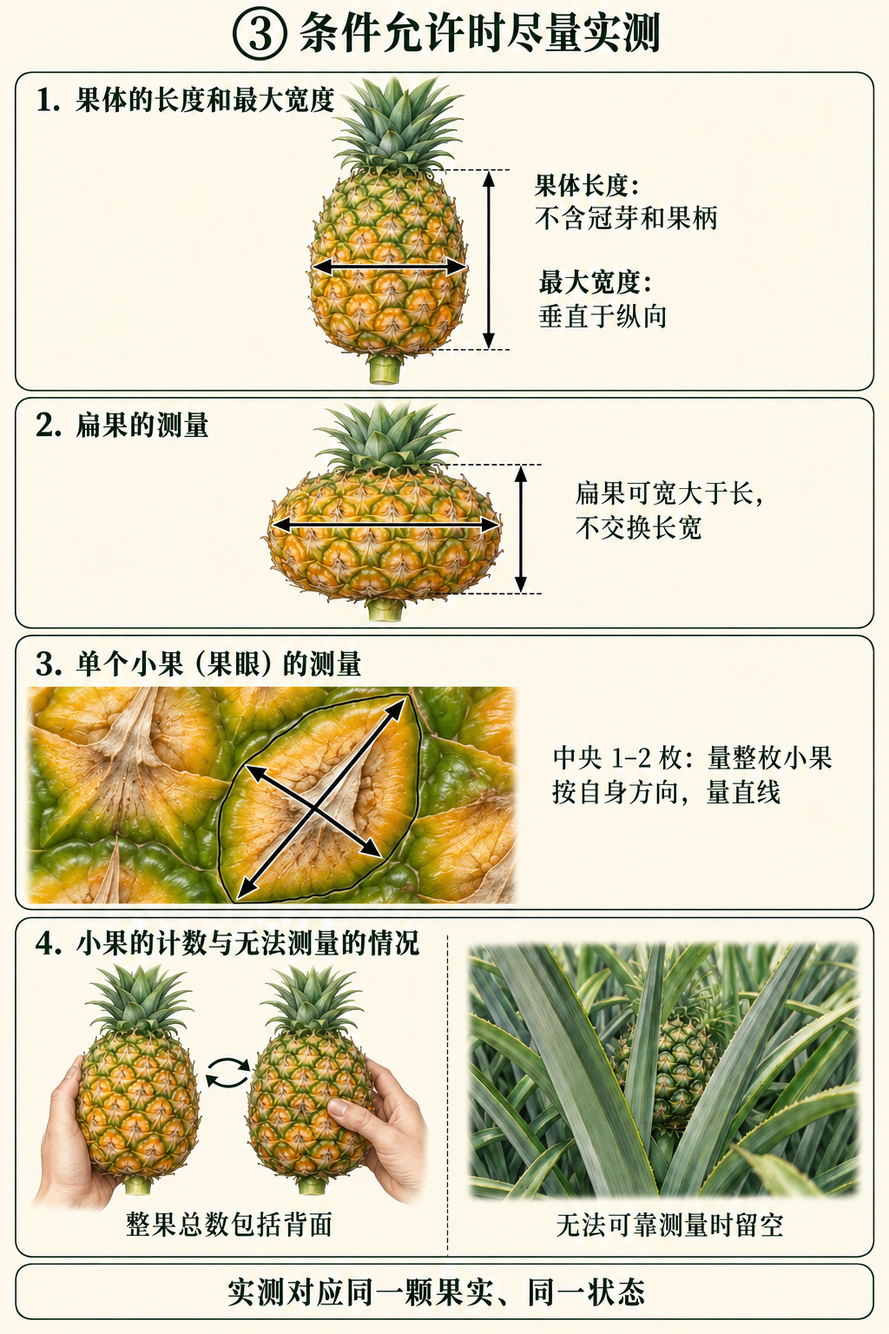
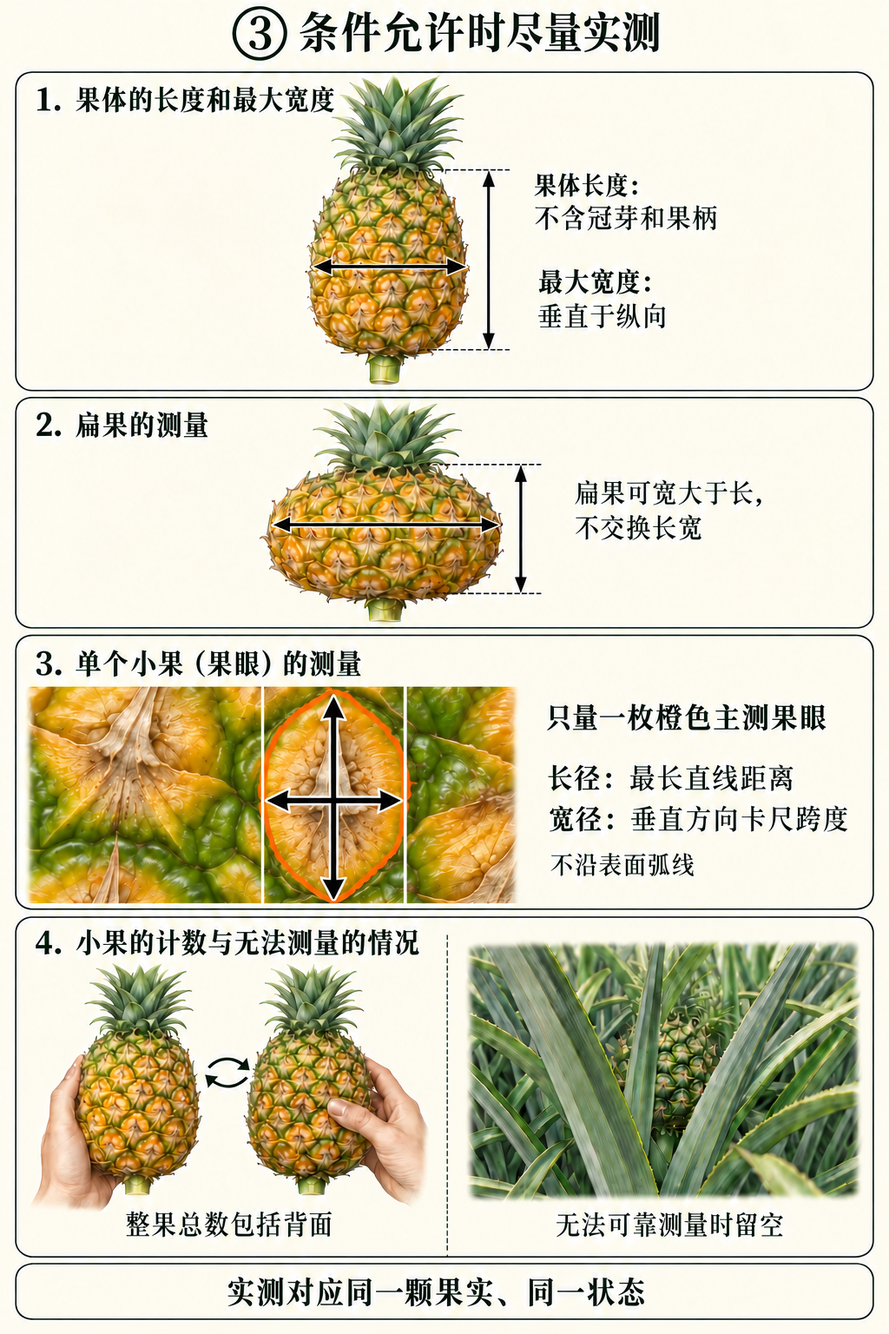
feat: identify one primary fruitlet and align collection guidance

diff --git a/docs/architecture.md b/docs/architecture.md
@@ -2,16 +2,33 @@
 
 本文面向开发者，记录整果侧面照片研究的目标、数据契约和验证边界。[Issue #21](https://github.com/AI4S-YB/pineapplehub/issues/21) 是学生采集与标注指南的唯一正文来源；仓库维护 [XML](annotation/label-studio.xml) 和正式配图，不维护学生指南镜像。
 
+实验须支持具体程序功能：每个采集量都要说明由哪个输出消费、对应哪个实物或图像区域，以及如何比较预测与实测。下面分别记录已实现功能和研究方案；XML 使用橙色标签保存唯一中央主测果眼；自动识别、实例选择和相应测量程序仍需实现与验证。
+
+## 0. 产品方向与原型经验
+
+目标是供普通用户使用的 C 端 app，支持自然田间和采后照片。早期原型依赖纯黑试验台／黑布、俯视拍摄、硬币参照及传统图像处理；这些条件苛刻，果体和其他区域的误识别会使后续计算失败。引入机器学习的直接目的，是改善这些识别步骤及日常照片的适应性，同时保留有用的几何估计。旧拍摄条件不应重新成为学生的默认要求。
+
+项目负责人报告：已对照过许多实物照片，前置识别正确时，现有近似所得结果与实测接近；明显失败多数来自果体等前置识别错误。这是已有使用经验，不应因参数不是标定值就判作巧合。现阶段保留它作为比较基线；本次公式审查没有重新计算这些实物样本，也未补造样本数或误差统计。推导、原始来源与适用边界见[裁剪圆柱近似审查](algorithms/cylindrical-approximation-review.md)。
+
 ## 1. 六项同等优先的输出
 
 1. 果体长度：沿冠芽端至果柄端方向的直线长度，不含冠芽和果柄。
 2. 整颗最大横径：垂直上述纵向的最大直线跨度，不是任意照片投影宽度。扁果可以宽大于长，不能按数值大小交换。
 3. 体积：目标果体的体积，不含冠芽、果柄。
 4. 宏观表面积：目标果体外表面积，排除冠芽、果柄，不逐一累计细小纹理凹凸。
-5. 中央代表性果眼长宽：赤道面中央 1–2 枚完整小果，按每枚自身最长直线跨度及垂直方向最大跨度测量；即使倾斜也用自身方向，不沿表面弧线。对象是相邻沟壑圈定的整枚小果，不是中央花盘或凹陷。这是代表性测量，不能宣称描述整颗果眼大小分布。
+5. 中央指定果眼长宽：输出指向唯一主测完整小果，同时显示其轮廓与尺寸。测量对象是相邻沟壑圈定的整枚小果外表区域，区别于花盘和中央凹陷。按 3.1 的位置规则选一枚；旧任务的第二枚实测原样保留。
 6. 整果果眼总数：同一颗果实含背面的人工总数，不是可见实例数量。
 
 六项均为核心目标。体积和表面积的独立参考测量方法、设备、样本与精度阈值仍待确定，本轮没有为学生新增缺乏可靠操作方法的字段。
+
+| 程序功能 | 采集或参考数据 | 必须验证的对应关系 |
+| --- | --- | --- |
+| 果体长度、最大横径 | 可见果体轮廓、牌四角及实测边长、同状态果体实测 | 固定方向一致；单张投影宽度不能直接冒充整颗最大横径 |
+| 体积、宏观表面积 | 轮廓及几何假设；另需独立体积／面积参考 | 对照独立实测，不能拿同一旋转体公式互证 |
+| 中央指定果眼长宽 | 指定实例的轮廓、角色及该枚原始实测 | 必须比较同一枚、同一定义的尺寸，并在结果图中定位它 |
+| 整果果眼总数 | 可见果眼实例、可见性、未知区域、含背面的人工整果计数 | 可见数与整果数分别报告；中央一枚的大小是否可外推需独立检验 |
+
+牌只提供尺度与姿态约束，不是新增的最终产品输出；每项输出还须报告参考值覆盖率与预测可用比例。
 
 ## 2. 数据来源、身份与划分
 
@@ -19,11 +36,13 @@
 
 同一实物的重拍、重复图、裁剪和增强保持在同一数据划分。开发端负责转换、划分、训练和评估，学生不选择训练／测试集。田间受叶片遮挡的缺测可能集中于特定阶段，不能假设缺测随机发生。
 
-已有真实任务、标注和草稿，不能再按空项目处理。配置切换需保留原图及原始快照，在导出副本验证转换和恢复后，协调者刷新并锁定生产记录：只改两类果眼标签名称、删除取消的 `target_fruit` 和 `reference_tag` 框结果；其他区域 ID、像素内容、图像尺寸、关联、已有数值、备注、状态和草稿身份均保留。不补造实测、不重新分配 ID、不清空试标、不另建正式项目。统计须从转换后的标注和草稿重建，重复转换无额外变化；有新增编辑先刷新验证，不覆盖。备份及真实标注保持私有。
+已有真实任务、标注和草稿，不能再按空项目处理。2026-10-19 已完成的配置切换改了两类果眼标签名称，并删除取消的 `target_fruit` 和 `reference_tag` 框结果；其他区域 ID、像素内容、图像尺寸、关联、已有数值、备注、状态和草稿身份均保留。
+
+主测角色通过新增原生标签引入，只更新项目配置，保留全部任务、标注、草稿、预测和统计，不自动指定旧区域身份。切换前保留原始快照，在正式数据副本验证应用和恢复，正式写入前锁定记录并检查快照未变；有新增编辑先刷新验证。原图、备份及真实标注保持私有。
 
 ## 3. 标注与测量接口
 
-绿色 `完整可见果眼` 和蓝色 `部分可见果眼` 都是可辨认的独立实例，后者只描述可见部分；每枚独立区域。紫色 `fruitlet_uncertain` 不是果眼实例，也不是明确背景。青色 `fruit_body` 汇集全部可确认可见果体，包括分离小块、阴影和贴合组织，保留一条记录；不补画遮挡，不包括冠芽叶片、果柄、背景和外翘细长尖端。
+橙色 `中央主测果眼（完整）`、绿色 `完整可见果眼` 和蓝色 `部分可见果眼` 都是可辨认的独立实例，后者只描述可见部分；每枚独立区域。紫色 `fruitlet_uncertain` 不是果眼实例，也不是明确背景。青色 `fruit_body` 汇集全部可确认可见果体，包括分离小块、阴影和贴合组织，保留一条记录；不补画遮挡，不包括冠芽叶片、果柄、背景和外翘细长尖端。
 
 先果眼／紫色，最后青色；青色不会替代或合并已有区域。所需目标包围范围由完整青色掩膜生成，包括分离小块，裁剪余量由开发配置。这是训练／评估接口，不代表推理时自动定位已经实现。
 
@@ -34,11 +53,33 @@
 | `fruit_max_width_mm` | 任务级，整颗最大横径 |
 | `total_fruitlet_count` | 任务级，人工整果总数 |
 | `fruitlet_long_diameter_mm` | 区域级，所选完整果眼自身长径 |
-| `fruitlet_short_diameter_mm` | 区域级，与该枚长径垂直的最大宽径 |
+| `fruitlet_short_diameter_mm` | 区域级，与该枚最长直线径垂直的卡尺跨度 |
 
-所有字段可缺测，无默认值；尺寸正数、步长 0.1 毫米，计数正整数。两枚果眼分别保留原始值，由开发汇总。空值不生成伪零，也不删除区域；清空一项不得影响其他字段或其他果眼。输入精度不是测量精度。[临时 Number 构建配方](../deploy/label-studio-number/README.md) 对应 1.23.2 的空字符串问题，产品跟踪见 [#22](https://github.com/AI4S-YB/pineapplehub/issues/22)，通用修复见 [上游 #9989](https://github.com/HumanSignal/label-studio/pull/9989)。原生 View 根据所选完整果眼显示区域字段；正式镜像的保存、重开、导出验收仍是部署门禁。
+所有字段可缺测，无默认值；尺寸正数、步长 0.1 毫米，计数正整数。现有每枚果眼的实测通过区域 ID 与其掩膜关联，已有两枚记录也保留各自原始值；主测角色由橙色标签保存，不从已有数值推断，也不将两枚数值汇总。空值不生成伪零，也不删除区域；清空一项不得影响其他字段或其他果眼。输入精度不是测量精度。[临时 Number 构建配方](../deploy/label-studio-number/README.md) 对应 1.23.2 的空字符串问题，产品跟踪见 [#22](https://github.com/AI4S-YB/pineapplehub/issues/22)，通用修复见 [上游 #9989](https://github.com/HumanSignal/label-studio/pull/9989)。原生 View 根据所选完整果眼显示区域字段；配置或镜像变更须验证保存、重开及导出。
 
 数量级差异和极端值可提示复核，不能据统计自动改值或删除，也不能发现所有人共同填错单位。本轮不新增异常检测服务。标注完成状态不是测量有效性标签。
+
+### 3.1 中央主测果眼与实例身份
+
+“中央”是相对于果体和拍摄视角的位置，“主测”是本项目的测量角色；它们不是新的植物学器官类别。逐枚保留轮廓属于**实例分割**：不仅区分果眼像素，还区分第几枚。随后从完整实例中选择主测对象，属于实例选择／排序；可先用位置规则完成，不预设必须再训练分类器。只把全部果眼像素合成一类的语义分割不能保留这种对应关系。
+
+界面使用独立橙色的“中央主测果眼（完整）”，在现有 `fruitlets` 控件内区分它与普通完整果眼。该枚只保存一份掩膜和一个区域 ID；已画好的普通完整果眼可原位改标签，不重复涂一份。开发端把它还原为 `fruitlet` 实例、完整可见、主测角色三项含义，防止额外计数。复用 Label Studio 1.23.2 原生 `Label maxUsages="1"` 和 `perRegion` 控件；橙色最多一枚，橙色和绿色均显示原有测量字段。有效主测必须恰好一枚；无法确定的任务可零枚并提交复核。配置的数量限制不代替负责人检查位置和完整性。
+
+主测对象固定为**一枚**：在果体纵向中部、朝向相机且完整可见的小果中，选择最靠近果体纵轴中点投影的一枚。中心落在沟壑上也只选最符合条件的一枚，不扩成两枚，不按大小或哪枚更容易对上程序结果选择。没有合适对象，或几枚之间无法可靠区分时，交负责人确认；不跳到边缘强凑。“强制一枚”规定有效主测记录的数量，不允许凭空补画对象或补造尺寸。候选范围和标注者一致性需用项目样本检验；“赤道”不自动等于果体最宽位置，现有代码用的是裁剪图半高。
+
+当前不要求第二枚，也不计算两枚平均。已有两枚实测全部保留，不能为了新契约删除其中一枚或自动指定主测身份。以后若研究局部变异，另行定义取样角色与聚合规则；不改变本次唯一主测输出。
+
+单枚方案服务于“定位并测量这一枚”的功能，不证明它足以代表整颗果实。现有代码恰好只取一枚，也不是取样充分性的证据。若用局部尺寸外推整果计数，须另外评估位置差异和外推误差，再决定是否需要多枚取样或不同的计数模型。
+
+主测角色与是否测到数值分开：指定了对象但无法实测时，仍可保留角色和轮廓，数值留空。已有实测不能自动推出它就是唯一主测对象；升级时保留全部区域 ID、掩膜和数值，经复核确认角色。
+
+尺寸定义也要统一。#21 现有“最长直线跨度及其垂直宽度”是此前写入的项目操作约定，不是 UPOV 或其他菠萝形态学指南的要求；不能反过来用 #21 为这项选择提供权威依据。[ImageJ 测量指南](https://imagej.net/ij/docs/guide/146-30.html#sub:Set-Measurements...) 将最大 Feret 径定义为边界两点间最大距离，可作为长径的几何定义来源。垂直方向的卡尺宽度也有通用图像测量定义，见 [Sympatec 的 FERETmax90](https://www.sympatec.com/en/particle-measurement/glossary/fundamentals-of-particle-characterisation/particle-shape)；这些资料均不规定菠萝中央取一枚。
+
+程序目前使用最小面积外接矩形的两条边，与上述量不普遍相等。本项目现在明确采用最大 Feret 径及其正交卡尺跨度，即与长径平行的两接触面之间的距离；不采用最长垂直弦。不规则形状下两者可能不同。计算上可用已有轮廓几何方法实现，仍须将新计算与这一实测定义匹配并验证。不能仅将旧 `a_eq`、`b_eq` 字段改名；果眼长宽乘积用于整果计数的假设也须随定义重新核对。完整可见不代表该区域与牌共面或没有透视缩短。
+
+### 3.2 图示必须符合实际操作
+
+当前绘制操作是**按住鼠标左键拖动**，不是右键。Label Studio 1.23.2 的 [DrawingTool](https://github.com/HumanSignal/label-studio/blob/1.23.2/web/libs/editor/src/mixins/DrawingTool.js) 会过滤右键和中键；本项目已有左键绘制的浏览器操作记录。普通起笔、Ctrl 重叠起笔和松键图标均需与文字一致：绘制时标左键，松开时不把右键涂成按下状态。⑥配图已修正为左键着色，松开状态无按钮着色。
 
 ## 4. AprilTag 与物理边界
 
@@ -46,15 +87,28 @@
 
 当前 37 张原图曾用 AprilTag 3.4.5 检查，每张均有一个正确定位的 ID 0；这仅支持这些样本取消日常人工框，不证明无牌、多牌、遮挡场景的准确率。
 
-牌放在果体最宽处侧边、靠近果体并面对相机，是让牌平面近似处于果体轴线附近的采集约定，仍需实测检验。牌、果体和果眼存在深度差；成功解码和准确分割不等于毫米测量准确，更不等于恢复三维形状。照片横向投影未必是整颗最大横径。不可见背面果眼、体积和表面积需要额外假设及独立参考数据。
+牌在照片中放于果实侧边，不遮挡果体；在深度方向，牌面应尽量位于**通过果体纵轴、近似平行于成像面的平面**。侧视图中牌的截线应与纵轴的深度位置重合。仅把牌画得与纵轴平行，或放在相同高度，不能表达这一要求；②侧视图已将牌边缘与纵轴画在同一前后位置，并说明实物牌在果实侧边。“最宽处附近”用于帮助安排高度和邻近位置，不能代替深度对齐。
+
+在正对相机、忽略畸变的平面近似下，像素跨度 `p = f_px × L / Z`。用牌推得的比例尺测量位于另一深度的对象，会得到 `L_est = L × Z_tag / Z_object`。因此牌与轴线深度接近有助于约束果体模型；牌前后错位会产生系统尺度误差。但朝向相机的果眼表面通常比纵轴更近，不能直接对所有果眼套用轴平面的比例尺。侧面轮廓还是曲面的切线投影，不自动等于同一深度的平面直径。
+
+已知牌的物理尺寸和相机内参，可估计牌的姿态与距离；[AprilTag 官方姿态接口](https://github.com/AprilRobotics/apriltag#pose-estimation) 要求像素单位的 `fx`、`fy` 及主点 `cx`、`cy`。仅有 EXIF 焦距毫米数不足以直接代入，还须考虑传感器／有效图幅、缩放裁剪和畸变。单张牌不能独立确定未知曲面的深度或背面形状；果体几何模型及物理实测仍是必要的验证部分。
+
+①②④中六处图案统一合成自 AprilRobotics 官方 AprilTag 36h11、ID 0 素材，与打印件的编码一致；反光与弯曲反例保留同一源图案。素材与修订提示词见[配图目录](annotation/illustrations/issue-21/)。最终图案的检测通过只能证明码可读，不能替代牌位置和尺寸语义检查。照片横向投影未必是整颗最大横径；不可见背面果眼、体积和表面积仍需额外假设及独立参考数据。
 
 ## 5. 当前代码与研究接口
 
 当前 Rust／WebAssembly 应用仍运行硬币和切面方案：[scale_calibration.rs](../src/pipeline/scale_calibration.rs) 检测 1 元硬币；[roi_extraction.rs](../src/pipeline/roi_extraction.rs) 依纹理选择 ROI（目标图像范围）；[unwrap_metrics.rs](../src/pipeline/unwrap_metrics.rs) 使用圆柱重投影及旋转体轮廓积分估计几何。[fruitlet_counting.rs](../src/pipeline/fruitlet_counting.rs) 用阈值、形态学和连通区域选代表果眼，以有效面积与果眼面积关系估整果总数。[fast.rs](../src/pipeline/fast.rs) 是并行计算路径；测量修改需同步两条路径。
 
+具体限制如下：
+
+- [correction.rs](../src/correction.rs) 的 `unwrap()` 使用**扶正并裁剪后的果体 ROI 宽度**：竖向分支 `f = r = W_roi`，旋转 90° 的分支 `f = r = H_roi`。这是按目标尺度归一化的虚拟投影参数，不是原照片宽度，也不是恢复的真实焦距与果实半径。两条路径均先裁剪再调用；详细推导及源自 Stack Overflow 的公式见[审查记录](algorithms/cylindrical-approximation-review.md)。不应未经比较就把它替换成真实焦距或删除校正。
+- 两条计算路径均在裁剪图半高附近筛选连通区域，以面积接近硬币面积的经验值及中心距离评分，只选**一枚**。这不等同于新方案中按固定位置指定主测对象；不能按预测结果挑最接近的人工实测来评估。
+- 选中轮廓的最小面积外接矩形产生 `a_eq`、`b_eq`；整果数估计的分母是 `a_eq × b_eq`，并非真实曲面果眼面积。局部一枚能否代表整果平均占地面积，是需要人工总数验证的额外假设。
+- 调试图会画出选中的框，但 [FruitletMetrics](../src/pipeline/mod.rs)、[历史记录](../src/history/model.rs) 和 [CSV](../src/export.rs) 没有保存该枚果眼的实例身份或原图轮廓。新功能必须让结果图、测量值和实例一起保留，才能复核“测的是哪一枚”。
+
 [FruitletMetrics](../src/pipeline/mod.rs) 与 [CSV 导出](../src/export.rs) 已有长度、宽度、体积、代表果眼尺寸、表面积和总数字段，但其算法估计不是本次实测真值；旧 `major_length`／`minor_length` 命名也不能证明已符合新固定方向定义。[历史存储](../src/history/model.rs) 保留当前应用结果。本轮没有改变这些代码，没有实现 AprilTag 浏览器接入、训练数据转换器或 Burn 模型。
 
-后续先验证人工掩膜与实测能否支持几何关系，再研究自动定位与实例分割。优先 Rust、Burn 和社区已有实现，用必要的小适配器连接数据；训练配置、转换和评估应可复现。尚未确定模型或运行时，不新增独立整图合格分类器。旧 #20 的分类器、硬币和切面流程属于历史方案，不是新采集流程。论文分数、参数量、文件大小或原生设备速度均不能证明浏览器内存、延迟、量化精度或 Burn 兼容性；模型选择须另做项目数据及目标设备验证。
+评估时先用人工掩膜隔离几何误差，再测自动识别引入的额外误差；这不要求等待几何研究全部完成才开发识别模型。优先 Rust、Burn 和社区已有实现，用必要的小适配器连接数据；训练配置、转换和评估应可复现。尚未确定模型或运行时，不新增独立整图合格分类器。旧 #20 的分类器、硬币和切面流程属于历史方案，不是新采集流程。论文分数、参数量、文件大小或原生设备速度均不能证明浏览器内存、延迟、量化精度或 Burn 兼容性；模型选择须另做项目数据及目标设备验证。
 
 [旧英文算法](algorithms/algorithm.md)／[旧中文算法](algorithms/algorithm_zh.md) 的正文保留，仍用于理解当前代码，旧精度与鲁棒性论述不自动成为新研究结论。
 
@@ -64,10 +118,16 @@
 
 验证分两阶段：先用人工区域和可靠实测评估几何假设，区分尺度、投影、深度和形状假设误差；再加入自动分割，测其额外误差。六类指标分别报告误差、参考值覆盖率和预测可用比例，再报告同时可用比例，不以完成率代替准确率。按品种、成熟阶段、果形、田间／采后条件检查偏差和缺测分布。体积与宏观表面积需独立参考测量，不能用同一公式的两次计算互证准确；整果计数须对照含背面的人工总数。
 
+中央果眼还要拆开验证三件事：指定人工实例时的尺寸误差；自动结果是否选中同一实例；完整自动流程的结果与可用率。预测实例与人工实例在同一原图坐标中匹配，身份不一致单独计为选取错误，不用数值碰巧接近掩盖。没有实测的实例仍可评价分割或选取，不能加入毫米误差统计；第二枚的数值不能替代被选中第一枚的真值。
+
 ## 7. 研究依据及适用范围
 
 - [澳大利亚 PI17000 项目报告](https://www.horticulture.com.au/globalassets/laserfiche/assets/project-reports/pi17000/pi17000-final-report.pdf)：报告的每条螺旋果眼数用于育种性状评价，不等同整果总数，不能直接替换本项目参考值。
-- [UPOV TG/295/1 菠萝指南](https://www.upov.int/edocs/tgdocs/en/tg295.pdf)：供品种性状描述参考，不证明中央两枚能代表整体大小分布。
-- [菠萝果眼形成的组织形态学观察](https://www.ahs.ac.cn/CN/10.16420/j.issn.0513-353x.2020-1093)：帮助区分花盘、宿萼及整枚小果；文中花盘宽度不能等同本项目按沟壑圈定的整枚小果宽度。
+- [UPOV TG/295/1 菠萝指南](https://www.upov.int/edocs/tgdocs/en/tg295.pdf)（[WIPO 存档](https://tind.wipo.int/record/58225/files/tg295_en.pdf)）：第 36 性状将 eye 大小分小、中、大，第 37 性状描述小果顶端形态。这不能支持本项目“中央两枚、各量长短径”的取样规范，也不证明两枚能代表整体大小分布。
+- [吴竞等，2022，菠萝果眼形成的组织形态学观察](https://www.ahs.ac.cn/CN/10.16420/j.issn.0513-353x.2020-1093)：研究花腔、花盘、宿萼及果眼深浅，包含成熟果中部果眼的深度分类。它有助于厘清测量对象，但不能把其中花盘宽度、凹陷深度直接当作本项目整枚小果外表区域的长宽。
+- [Adje 等，2019，Morphological characterization of pineapple genetic resources from Benin](https://revues.cirad.fr/index.php/fruits/article/download/37310/37300/44449)，*Fruits* 74(4):167–179：把小果宽度列为种质评价性状，方法部分说明尺寸使用游标卡尺等工具。可核实的内容支持小果尺寸作为性状，但未提供本项目需要的“照片中央两枚、与实例一一对应”的取样依据。
+- [Coppens d’Eeckenbrugge 与 Leal，2003，Morphology, Anatomy and Taxonomy](https://publications.cirad.fr/une_notice.php?dk=513593)，载 *The Pineapple: Botany, Production and Uses*，13–32 页：形态学专著来源。此次核实了作者机构的书目记录，未取得出版社完整章节用于逐项确认取样方法；不据书名声称它规定了中央一枚或两枚。可读的 [澳大利亚 OGTR 生物学资料](https://www.ogtr.gov.au/sites/default/files/files/2021-07/the_biology_of_pineapple.pdf) 第 3.2、4.3 节描述花发育为小果、小果融合形成复果及外表多边形单元，但不定义本项目的主测角色。
+
+“果眼”在果皮外观、去皮加工和组织形态学中可能指不同边界；本项目必须配图明确采用整枚小果的可见外表区域。中央主测的数量与位置已选定为项目约定，其一致性及对整果外推的效果仍需验证，不能由器官的形态学定义推导。
 
 这些来源没有给出本项目六项输出的准确性验收结果。体积／表面积参考协议、样本数量、精度阈值及最终模型选型仍是后续研究问题。

diff --git a/docs/algorithms/cylindrical-approximation-review.md b/docs/algorithms/cylindrical-approximation-review.md
@@ -1,0 +1,150 @@
+# 裁剪圆柱近似：来源、实际变换与测量边界
+
+审查日期：2026-10-19。源码基线：`9ed497db0e2e3f0c030d0c7733d3f2bb44addcff`。本次核对公式、调用链和历史实现，没有修改计算代码，也没有重新测量实物。
+
+结论：现有方法是**以扶正果体裁剪图为尺度的固定形变近似**。它有明确来源和可解释的效果，值得保留为经验基线；不能因没有使用真实焦距就否定，也不能把它描述成已经标定的通用三维恢复。项目负责人已报告许多实物对照结果接近实测，主要失败来自前置识别；本次没有独立复核这些样本，以下数值均为公式推导，不是新的实测精度报告。
+
+## 1. 来源与传承
+
+找到与实现逐项吻合的来源：Hammer 于 2012 年回答的 [Warp Image to Appear in Cylindrical Projection](https://stackoverflow.com/questions/12017790/warp-image-to-appear-in-cylindrical-projection)。其示例包含相同的 `f = w`、`r = w`、圆心位置、二次方程正根及双线性取样。
+
+该回答处理的是把平面图像投到凹圆柱面，再形成透视图的图形变换。它为避免空洞，从输出像素反查输入位置；这里的“反向取样”不能直接解释成“真实凸果体的逆透视解”。这是原问题的边界，并不直接否定将该形变用于经验校正。
+
+仓库历史也保留了传承证据：
+
+- `2a000707fbf4d9d9629b27e4ac12d592dd5b16b2`（2025-04-08，`fix: distortion (#14)`）加入 `archive/convert_pt.cpp`、Python `convert_pt()` 和 `unwrap()`；C++ 与上述回答的核心计算一致。
+- 同一提交的 `main.py` 先用外接矩形扶正裁剪，再传入 `unwrap()`，随后旋转 90° 重复处理。裁剪不是后来才加上的解释。
+- Rust 提交 `a1b780e`（2026-03-02）的注释明确对齐 Python `convert_pt`。当前版本保留该几何关系，将逐列不变量提前计算。
+
+## 2. 当前到底用了哪个宽度
+
+[普通路径](../../src/pipeline/unwrap_metrics.rs) 与[并行路径](../../src/pipeline/fast.rs) 都经过：
+
+`识别果体范围 → 映射回高分辨率 → 扶正 → 紧裁剪 → unwrap`
+
+设最终裁剪图尺寸为 `W_roi × H_roi`：
+
+| 分支 | 传入图像 | `f`、`r` 的值 | 后续主要用途 |
+| --- | --- | --- | --- |
+| 竖向 | 扶正的果体裁剪图 | `W_roi` | 高度估计 |
+| 横向 | 同一裁剪图旋转 90° | `H_roi` | 宽度、轮廓及体积／表面积估计 |
+
+这里既不是整张原照片的宽度，也不是为了旋转而临时扩大的对角线方框宽度。`f`、`r` 是虚拟几何参数；原照片焦距、拍摄距离和实际半径没有从这一步求出来。
+
+物理单位来自另外的硬币尺度。低分辨率的每毫米像素数乘以高低分辨率比例，再用于高分辨率结果；像素归一化与毫米校准是两件事。
+
+## 3. 从当前代码化简出实际形变
+
+以下由 [correction.rs](../../src/correction.rs) 独立化简。令传入图宽为 `W`、高为 `H`，输出像素的中心化坐标为
+
+\[
+X=x-W/2,\quad Y=y-H/2,\quad t=X/W.
+\]
+
+默认参数为 `f = r = W`，故圆心深度为
+
+\[
+z_0=W-\sqrt{W^2-(W/2)^2}=aW,
+\qquad a=1-\frac{\sqrt3}{2}\approx0.1339745962.
+\]
+
+射线满足 `X_c = X z_c / f`，圆柱截面满足
+
+\[
+X_c^2+(z_c-z_0)^2=r^2.
+\]
+
+代入得到代码求解的二次式：
+
+\[
+(1+t^2)z_c^2-2z_0z_c+z_0^2-r^2=0.
+\]
+
+取代码的正根，并除以 `f = W`，得到纯粹依赖相对横向位置的函数：
+
+\[
+k(t)=\frac{z_c}{f}
+=\frac{a+\sqrt{1+(1-a^2)t^2}}{1+t^2}.
+\]
+
+程序读取的输入位置是
+
+\[
+x_s=W/2+k(t)X,\qquad y_s=H/2+k(t)Y.
+\]
+
+注意这是“输出位置 → 输入取样位置”。`k > 1` 表示从更外侧取样，结果中的对应位置向中心收缩，不是把中心放大。
+
+| 输出列距中心占全宽的比例 `abs(X)/W` | 输入取样比例 `k` | 该列纵向长度的输出／输入比例 `1/k` |
+| --- | --- | --- |
+| 0 | 1.133975 | 0.881854 |
+| 0.125 | 1.124054 | 0.889637 |
+| 0.25 | 1.095724 | 0.912639 |
+| 0.375 | 1.052750 | 0.949893 |
+| 0.5 | 1 | 1 |
+
+因此中央列的纵向长度收缩约 **11.8%**，左右边界位置固定；中心附近很小的横向长度也有同样的一阶比例。离开中心后，横向长度还涉及 `k` 随位置的变化，不能把整张图每一种长度都直接乘 0.881854。实际最终尺寸还经过轮廓提取与外接矩形，可能受边界和阈值影响。
+
+也可以直接追踪一个输入点的去向。设其中心化横坐标为 `S`，则
+
+\[
+F(S)=a+\sqrt{1-(S/W)^2},\qquad
+X=S/F(S),\quad Y=T/F(S).
+\]
+
+其中 `T` 是输入点的中心化纵坐标。这与上面的取样式互逆。对输入半幅等间隔 1,001 点核对，双精度计算中的最大归一化往返残差约 `1.11×10^-16`。这是代数核对，不包含 Rust 单精度、插值或物理误差。
+
+## 4. 裁剪宽度这个 trick 有什么价值
+
+**相同对象的等比例缩放不会改变相对校正强度。** 图像、裁剪和尺度一起放大 `s` 倍时，`f`、`r`、坐标也一起放大；`t` 和 `k(t)` 保持不变。忽略离散像素、插值和识别差异，长度像素数与每毫米像素数同时乘 `s`，毫米结果不变。这解释了为什么不能把它理解成“任意拿原图宽度冒充焦距”。
+
+**裁剪让形变跟随果体的位置与范围。** 果体被扶正、居中后，中心收缩和边界锚定总施加在目标的相对位置。识别错对象、裁剪含过多背景、中心偏移或方向错误，会改变形变落在果体上的位置；这与项目负责人观察到的前置识别敏感性相符。
+
+**它提供稳定的校正形状，而不是逐张恢复深度。** 固定 `f/W = r/W = 1` 后，分辨率不再是自由度；拍摄距离、视角和真实曲率也没有被单独估计。图像缩放不变性不能推导出拍摄距离不变性：移动相机会改变真实透视关系，即使最终裁剪尺寸被归一化。
+
+## 5. 为什么可能与实测接近
+
+下面是能够解释其作用方向的简化模型，不是对既有照片误差来源的定论。
+
+假设参考物平面距相机为 `D`，一小块被测表面比它向相机凸出 `δ`，两者近似正对相机。按参考平面比例尺换算时，物体长度的放大率为
+
+\[
+m=\frac{D}{D-\delta}=\frac1{1-q},\qquad q=\delta/D.
+\]
+
+当前近似在中心的输出比例为 `c = 0.881854`。若原来有约 `1.133975` 倍的放大，即 `q ≈ 0.118146`，则 `c × m ≈ 1`，它恰能抵消这种放大。这为经验有效提供了一种几何解释：校正可能在一定拍摄条件下稳定补偿深度差。
+
+用同一个局部模型改变 `q`，可看出边界：
+
+| 假定深度差 `δ/D` | 按参考平面换算的原始倍数 | 再施加中心近似后的倍数 |
+| --- | --- | --- |
+| 0.05 | 1.0526 | 0.9283 |
+| 0.118146 | 1.1340 | 1.0000 |
+| 0.20 | 1.2500 | 1.1023 |
+
+这些是假设情景下的计算值，不是项目实测误差。它们说明同一固定校正有可解释的适用范围，也说明不能据一组条件准确就证明任意距离都准确。反过来，不能因为公式不是完整物理模型，就否定已观察到的重复有效结果。
+
+此外，真正的果体轮廓通常是曲面的切线投影，不能把上面局部表面公式直接当作全果长宽或体积的精确误差式。参考牌从原型中的位置改到纵轴平面，也可能改变原来被补偿的深度关系，须保留旧基线进行比较。
+
+## 6. 不能从该公式推出什么
+
+- **真实焦距和半径。** 默认 `r = W`，而图幅半宽为 `W/2`；`z0 ≈ 0.134W < r`，虚拟相机原点甚至位于所构造圆柱内部。这与来源的凹面图形投影相容，不能把每个参数按字面当作相机在真实果实外部的物理量。
+- **弧长展开。** 这里没有将横坐标变为 `rθ` 的步骤，因此不是保持真实表面距离的圆柱展开；输出面积也不能直接解释为真实果皮面积。
+- **双轴融合的物理唯一性。** 两次计算分别用 `W_roi` 和 `H_roi`，再从不同结果取长、宽和轮廓。这是组合近似，不是同一套相机内参下联合求出的三维曲面；两轴和旋转体积分的准确性需分别看参考测量。
+- **任意视角、非对称形状或背面信息。** 归一化不会恢复不可见表面，也不会自行消除倾斜、遮挡、镜头畸变和模型形状差异。
+
+仅将 `f` 改成 EXIF 换算的真实像素焦距也不构成修复。在当前构造下，中心比例为
+
+\[
+k(0)=1+\frac{r-\sqrt{r^2-(W/2)^2}}{f}.
+\]
+
+只增大 `f` 会减弱校正，但没有补齐真实半径、距离、主点、参考物平面等条件。旧文档所说“真实焦距通常导致欠校正”不应作为一般相机结论；它最多描述这组虚拟参数下改变一个量的效果。
+
+还有一项与指标有关的区别：[fruitlet_counting.rs](../../src/pipeline/fruitlet_counting.rs) 在**未经过上述形变的扶正裁剪图**上选小果，再取最小面积外接矩形的边长。果体长宽／体积的校正和小果长宽不是同一条计算链；验证其中一项不能代替另一项。
+
+## 7. 本次决定
+
+保留现有计算作为经验基线，使用机器学习改善果体、参考物和果眼识别。评估时分别比较正确人工区域下的几何误差、自动识别增加的误差，以及最终可用率；不因为引入机器学习就同时更换全部几何，使变化来源无法判断。
+
+本次没有运行照片批量评测、安装新模型或修改计算代码。已完成的是源头与历史核对、两条调用路径核对、归一化公式与逆式数值核对。新采集条件下的误差范围及体积、表面积、整果计数的独立准确性仍需相应实物依据。

diff --git a/AGENTS.md b/AGENTS.md
@@ -1,5 +1,17 @@
 # Project Guidance
 
+## Product Direction
+
+- Build a consumer app for ordinary field and post-harvest photos. The black
+  backdrop, overhead setup, coin reference, and fragile traditional-CV detection
+  belong to the prototype, not the target collection requirements. Use machine
+  learning to improve recognition while retaining useful geometric estimation.
+- Before replacing the existing geometric approximation, read
+  `docs/algorithms/cylindrical-approximation-review.md`. Its parameters use the
+  upright fruit crop, not the original photo width. Preserve the owner's reported
+  physical comparisons as empirical evidence; separate recognition failures from
+  geometric errors and evaluate changes against that baseline.
+
 ## Collection And Annotation
 
 - Agronomy graduate students collect images and annotate them. Assume no
@@ -16,6 +28,10 @@
 - Save each fruitlet as a separate region. Distinguish incomplete but identifiable
   fruitlets from regions whose boundaries or instance count cannot be determined.
   Uncertain regions are neither fruitlet instances nor confirmed background.
+- The target measurement contract selects one central primary fruitlet: fully
+  visible, facing the camera, in the longitudinal middle, nearest the projected
+  axis midpoint. Preserve its instance identity separately from missing dimensions;
+  unresolved selection goes to the reviewer. See the architecture for rollout state.
 - Avoid wasting usable data, but favor straightforward exclusion after review
   over substantial custom code to salvage ambiguous supervision. Additional
   careful collection/annotation is acceptable. Exclusion from a training set
@@ -47,11 +63,21 @@
 
 ## Measurement Evidence
 
+- Design experiments backward from the program feature they must support. For
+  each collected label or measurement, identify the consuming output, the same
+  physical object and region, and the comparison that will validate it. Record
+  implemented behavior, proposed behavior, and unvalidated assumptions separately
+  in `docs/architecture.md`; collecting data alone does not complete a feature.
 - Fruit dimensions and whole-fruit fruitlet count are equally important. Evaluate
   their errors and availability independently; completion is not validity.
 - AprilTag 36h11 uses the measured black-square side, excluding the outer white
-  margin. Keep the student protocol simple: a flat tag beside the widest part of
-  the fruit, near it, not in front or behind, and facing the camera.
+  margin. Place its flat face beside the fruit, facing the camera, approximately
+  in the plane through the fruit's longitudinal axis and parallel to the image
+  plane. In a side-view diagram, the tag plane must align with the axis in depth;
+  height near the widest part and parallel orientation alone are insufficient.
+- Collection illustrations carry instructions: use one authentic AprilTag 36h11
+  pattern throughout, and verify spatial placement and mouse-button diagrams
+  against the stated geometry and actual interaction before publication.
 - Treat a tag plane near the fruit axis as an approximation to validate against
   physical measurements, not evidence of recovered 3D shape. Accurate masks and
   tag decoding alone do not establish metric accuracy or unseen fruitlet count.

diff --git a/docs/algorithms/algorithm.md b/docs/algorithms/algorithm.md
@@ -4,6 +4,8 @@
 
 *Surface Texture Analysis via Inverse Cylindrical Perspective Correction*
 
+> Reading note (2026-10-19): This document retains the historical algorithm description. The equal `f` and `r` parameters use the upright fruit crop's width and define a virtual projection. Claims of physical accuracy below are not general accuracy guarantees. See the [approximation review](cylindrical-approximation-review.md) for the source, actual contraction, and limits of the reported physical comparisons.
+
 This document provides a mathematically rigorous description of the computer vision pipeline implemented in PineappleHub for measuring pineapple fruitlet geometry. The pipeline is designed to be robust against lighting variations, fruit orientation, and camera distance by combining **physical-scale calibration**, **surface-texture-driven ROI selection**, and **dual-axis cylindrical perspective correction**.
 
 ## Core Assumptions

diff --git a/docs/algorithms/algorithm_zh.md b/docs/algorithms/algorithm_zh.md
@@ -4,6 +4,8 @@
 
 *基于逆圆柱透视校正的表面纹理分析*
 
+> 阅读说明（2026-10-19）：本文保留历史算法描述。`f = r` 使用扶正果体裁剪图的宽度，是虚拟投影参数；正文中的“物理准确”“真实”等措辞不构成通用精度证明。公式来源、实际收缩效果及已有实物经验的边界见[裁剪圆柱近似审查](cylindrical-approximation-review.md)。
+
 本文档对 PineappleHub 菠萝果眼几何参数测量流水线进行严格的数学描述。该流水线将**物理尺度校准**、**表面纹理驱动的感兴趣区域（ROI）选择**以及**双轴圆柱透视校正**相结合，对光照变化、拍摄距离及果实姿态均具有鲁棒性。
 
 ## 核心假设
